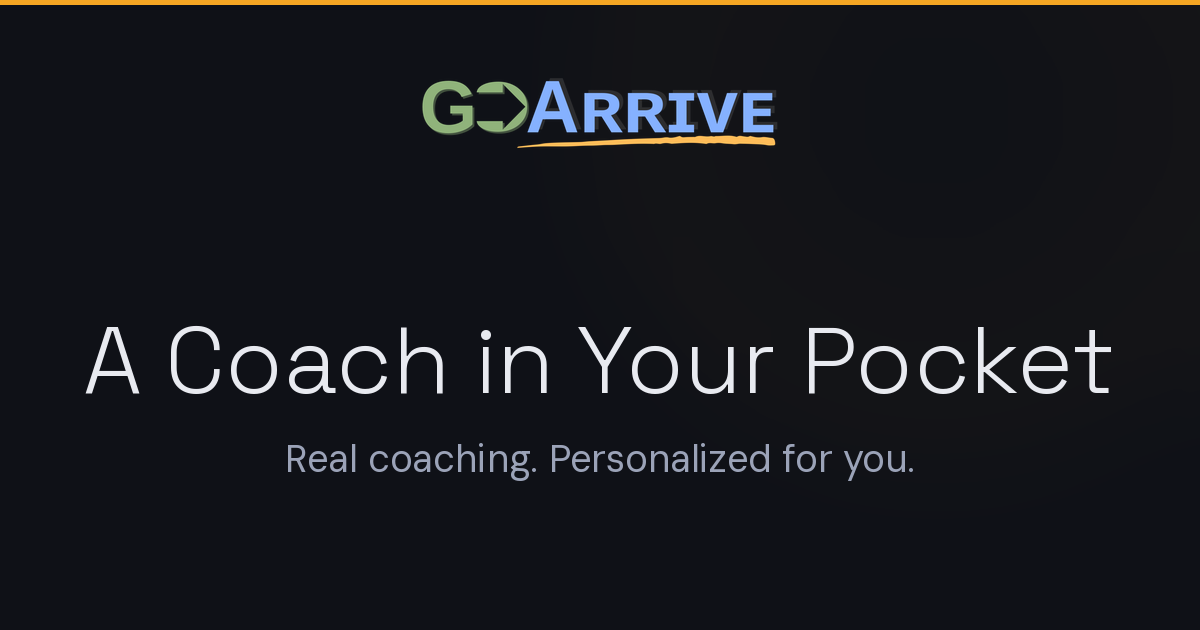
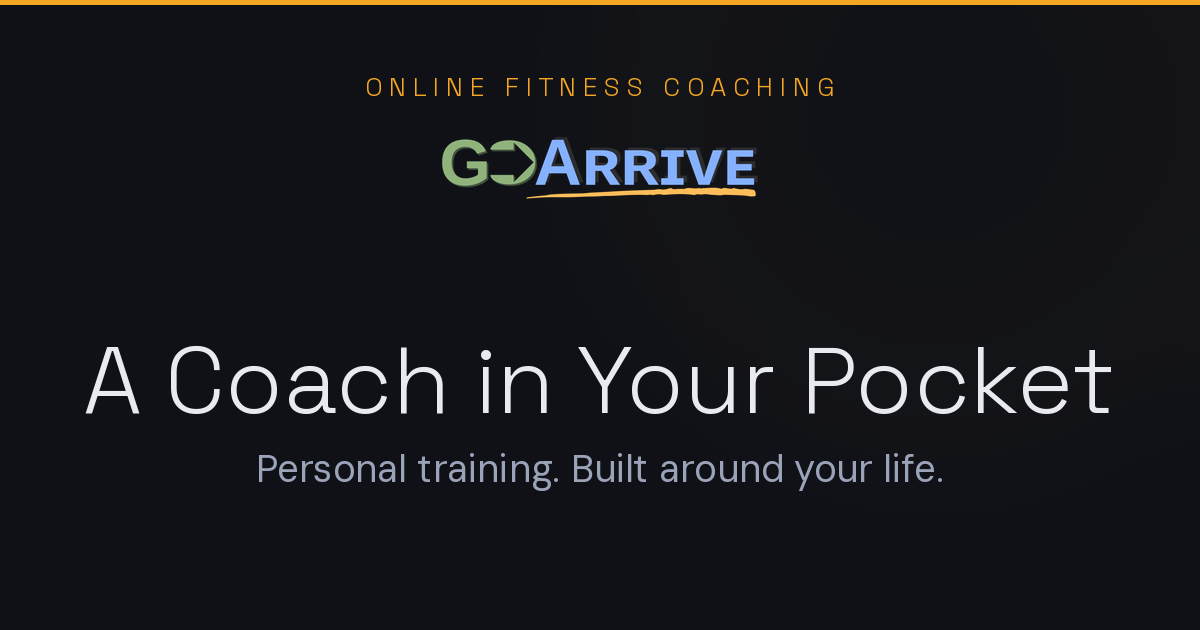
fix(social): add fitness category kicker so card reads as fitness coaching
A gold "ONLINE FITNESS COACHING" kicker tops the card and the subhead
switches to "Personal training. Built around your life." Together they
keep the card from reading as generic life/exec coaching at thumbnail
scale. Wordmark drops to 320 px and shifts down to make room.

diff --git a/scripts/generate_og_image.py b/scripts/generate_og_image.py
@@ -57,14 +57,20 @@ def main():
     draw = ImageDraw.Draw(img)
     draw.rectangle((0, 0, W, 4), fill=GOLD)
 
-    # Small wordmark anchored top — the headline carries the card
+    # Category kicker — establishes "fitness" so the card can't read as life/exec coaching
+    kicker_font = ImageFont.truetype(FONT_GROTESK, 26)
+    kicker = 'O N L I N E   F I T N E S S   C O A C H I N G'
+    kw = draw.textlength(kicker, font=kicker_font)
+    draw.text(((W - kw) // 2, 70), kicker, font=kicker_font, fill=GOLD)
+
+    # Small wordmark below the kicker — supporting brand mark
     logo = Image.open(LOGO_PATH).convert('RGBA')
-    target_w = 360
+    target_w = 320
     ratio = target_w / logo.width
     target_h = int(logo.height * ratio)
     logo = logo.resize((target_w, target_h), Image.LANCZOS)
     lx = (W - target_w) // 2
-    ly = 70
+    ly = 130
     img.paste(logo, (lx, ly), logo)
 
     # Hero headline — auto-fit to leave 80px margins, capped at 96px
@@ -76,14 +82,14 @@ def main():
         headline_size -= 2
         headline_font = ImageFont.truetype(FONT_GROTESK, headline_size)
     hw = draw.textlength(headline, font=headline_font)
-    headline_y = 300
+    headline_y = 320
     draw.text(((W - hw) // 2, headline_y), headline, font=headline_font, fill=TEXT)
 
-    # Subhead — readable at thumbnail scale, supports the headline
+    # Subhead — fitness-specific language ("personal training") clinches the category
     sub_font = ImageFont.truetype(FONT_DMSANS, 38)
-    sub = 'Real coaching. Personalized for you.'
+    sub = 'Personal training. Built around your life.'
     sw = draw.textlength(sub, font=sub_font)
-    draw.text(((W - sw) // 2, headline_y + headline_size + 40), sub, font=sub_font, fill=MUTED)
+    draw.text(((W - sw) // 2, headline_y + headline_size + 30), sub, font=sub_font, fill=MUTED)
 
     img.save(OUT_PATH, 'PNG', optimize=True)
     print(f'[generate_og_image] Wrote {OUT_PATH} ({os.path.getsize(OUT_PATH)} bytes)')
